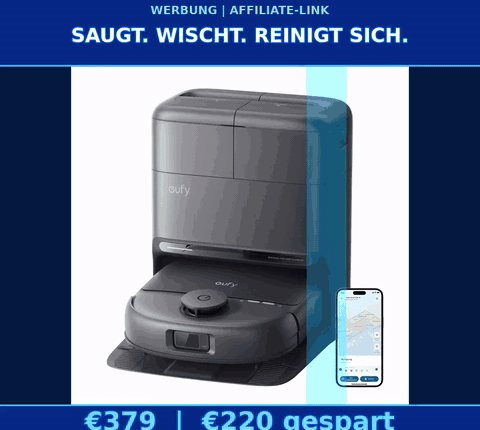
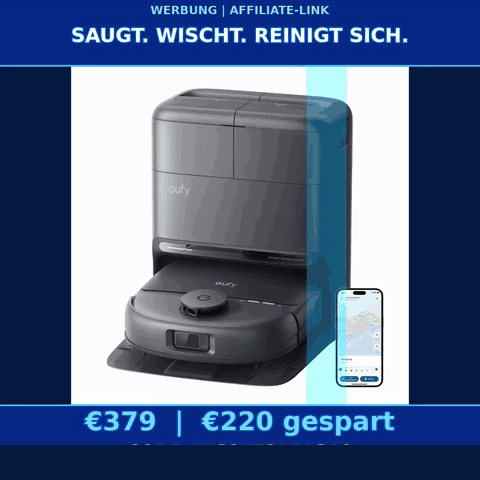
Clean eufy deal artwork and remove source branding

diff --git a/eufy-deals.html b/eufy-deals.html
@@ -16,7 +16,7 @@
 .notice{background:#fff8d6;border-left:5px solid var(--gold);max-width:1000px;margin:20px auto;padding:12px 16px;font-size:.95rem}
 .grid{max-width:1100px;margin:0 auto;padding:8px 16px 40px;display:grid;grid-template-columns:repeat(auto-fit,minmax(min(100%,300px),1fr));gap:24px}
 .card{background:#fff;border-radius:14px;overflow:hidden;box-shadow:0 4px 18px rgba(10,42,138,.15);display:flex;flex-direction:column}
-.anim{width:100%;height:auto;display:block;background:var(--navy)}
+.card>a:first-child{display:block;aspect-ratio:480/445;overflow:hidden}.anim{width:100%;height:100%;object-fit:cover;object-position:top;display:block;background:var(--navy)}
 .body{padding:16px 18px 20px;display:flex;flex-direction:column;gap:8px;flex:1}
 .tag{align-self:flex-start;background:var(--blue);color:#fff;font-size:.78rem;padding:3px 10px;border-radius:99px}
 h2{margin:0;font-size:1.2rem} .price strong{font-size:1.7rem;color:var(--blue)} .price span{color:#c0392b;font-weight:600;margin-left:6px}
